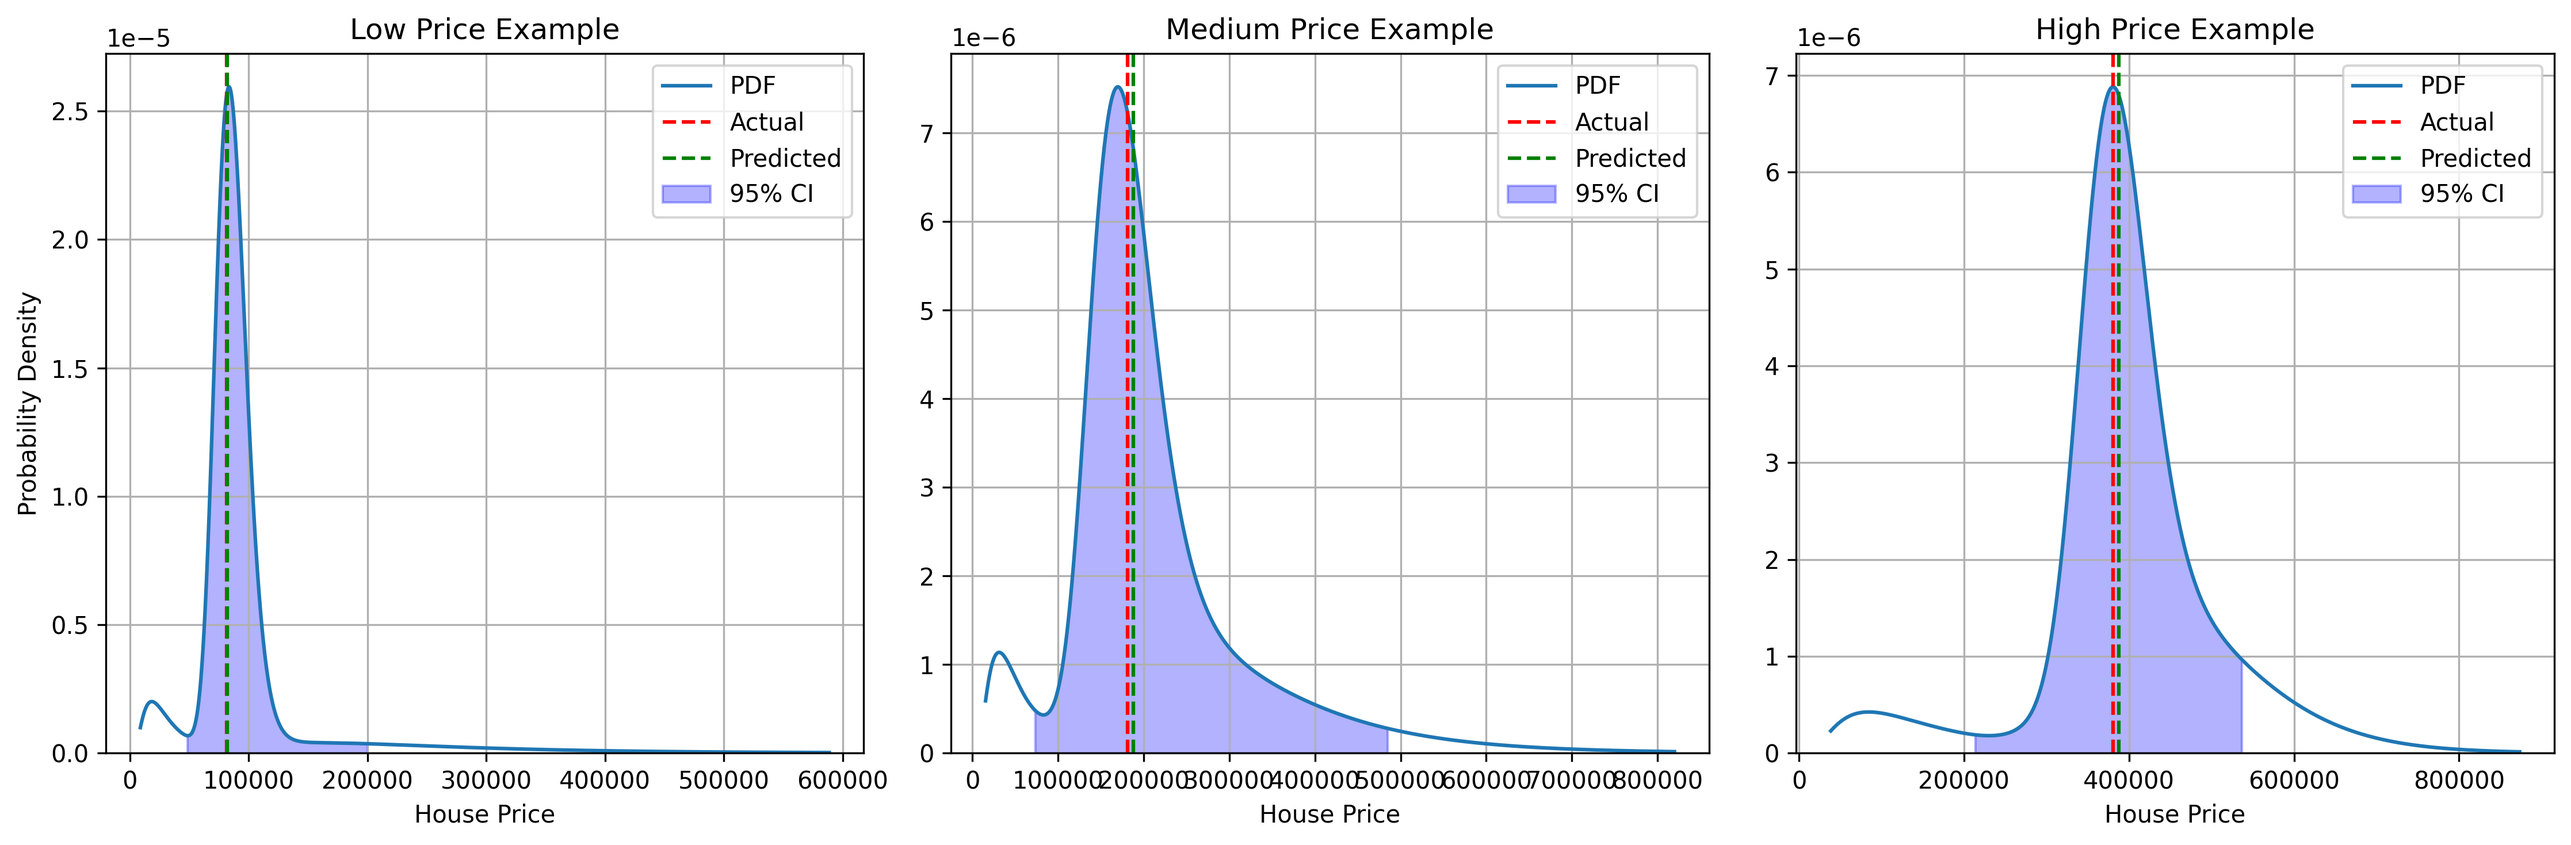
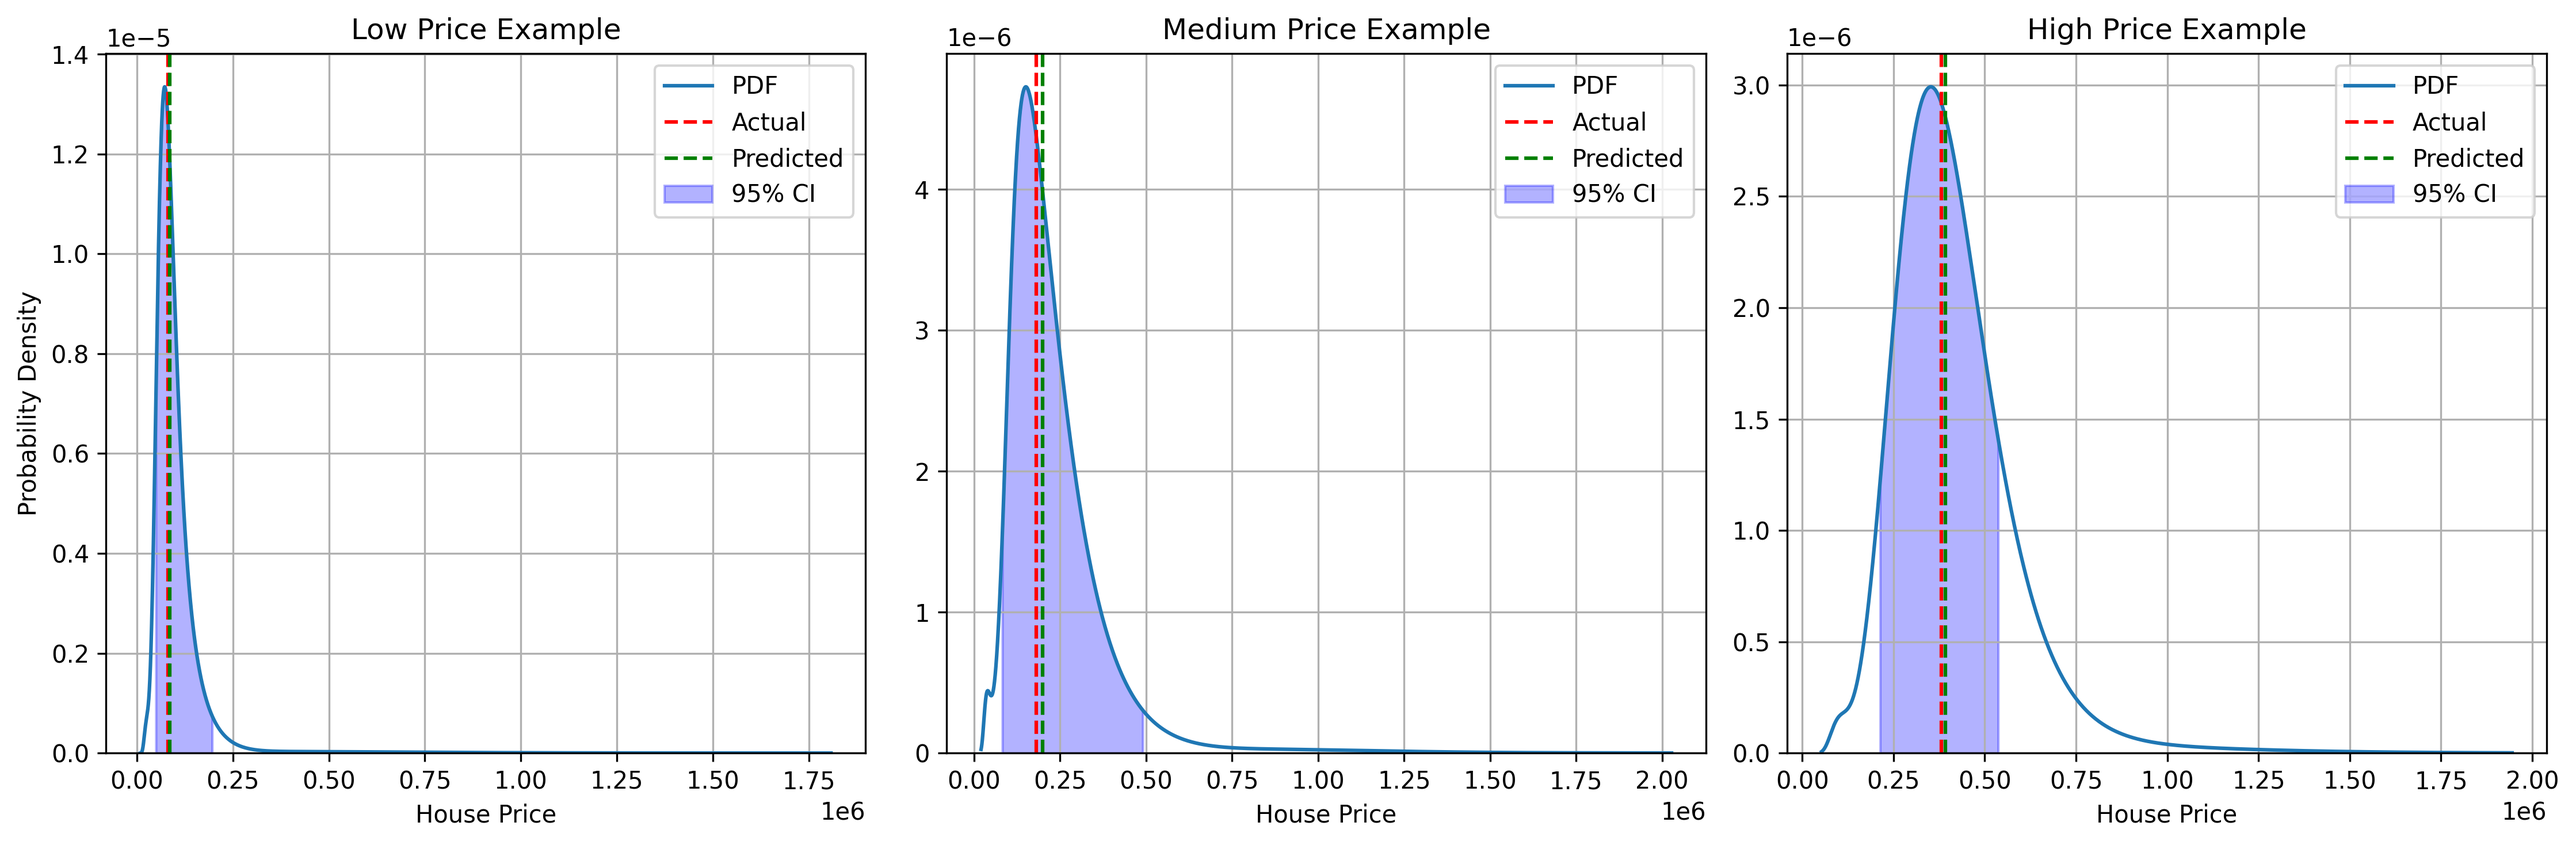
Update examples

diff --git a/prob_gbt/example.py b/prob_gbt/example.py
@@ -130,7 +130,7 @@ def main():
     print("\nTraining ProbGBT model...")
     model = ProbGBT(
         num_quantiles=100,
-        iterations=50,
+        iterations=1500,
         subsample=1.0,
         random_seed=1234,
         calibrate=True, 
@@ -147,8 +147,8 @@ def main():
         verbose=True
     )
 
-    # Define smoothing method for all predictions
-    smoothing_method = 'sample_kde'  # Use smoothing method for better curves
+    # Define smoothing method: sample_kde (default), spline, gmm
+    smoothing_method = 'sample_kde'
 
     # First, get the raw quantile predictions for direct interval calculation
     print("\nGetting raw quantile predictions...")
@@ -408,15 +408,29 @@ def main():
     print("Saved feature importance and uncertainty plot to ./images/feature_uncertainty.png")
     
     # 4. Enhanced calibration plot with detailed metrics
-    print("\nCreating enhanced calibration plot with metrics...")
-    # Create confidence levels array with 0.95 included exactly
-    confidence_levels_1 = np.linspace(0.1, 0.94, 15)
-    confidence_levels_2 = np.linspace(0.96, 0.99, 4)
-    confidence_levels = np.concatenate([confidence_levels_1, np.array([0.95]), confidence_levels_2])
+    print("\nCreating calibration plot with metrics...")
+    
+    # First, use the evaluate_calibration method to get calibration results for key confidence levels
+    print("Evaluating calibration using model.evaluate_calibration()...")
+    cal_eval_results = model.evaluate_calibration(X_test, y_test)
+    print("\nCalibration evaluation results:")
+    print(cal_eval_results)
+    
+    # Create a much finer grid of confidence levels for the detailed calibration curve
+    # Create a denser grid of confidence levels with more points
+    confidence_levels_dense = np.concatenate([
+        np.linspace(0.01, 0.09, 9),           # 1% to 9% in 1% steps
+        np.linspace(0.1, 0.9, 81),            # 10% to 90% in 1% steps
+        np.linspace(0.91, 0.99, 9),           # 91% to 99% in 1% steps
+        np.array([0.95, 0.975, 0.99])         # Add specific levels of interest
+    ])
+    # Remove duplicates and sort
+    confidence_levels_dense = np.unique(confidence_levels_dense)
+    
     observed_coverages = []
     ci_widths_by_level = []
     
-    # Create a figure for the enhanced calibration plot
+    # Create a figure for the calibration plot
     plt.figure(figsize=(12, 10))
     
     # Create two subplots: calibration curve and width vs. confidence level
@@ -424,12 +438,9 @@ def main():
     ax1 = plt.subplot(gs[0])
     ax2 = plt.subplot(gs[1])
     
-    # Use the calibration results from model.evaluate_calibration for key confidence levels
-    # and use direct calculation for the rest
-    
-    # First, compute a more detailed calibration curve for visualization
-    print("Calculating coverage for different confidence levels...")
-    for conf_level in tqdm(confidence_levels, desc="Evaluating confidence levels"):
+    # Calculate coverage for each confidence level in the dense grid
+    print("Calculating coverage for a dense grid of confidence levels...")
+    for conf_level in tqdm(confidence_levels_dense, desc="Evaluating confidence levels"):
         # For each confidence level, calculate intervals
         if model.calibrate and model.is_calibrated:
             # Use the direct quantile approach
@@ -450,19 +461,25 @@ def main():
         coverage = np.mean((y_raw_test >= lower) & (y_raw_test <= upper))
         avg_width = np.mean(upper - lower)
         
-        print(f"Coverage for {conf_level:.2f}: {coverage:.2%}, Avg. width: {avg_width:.2f}")
+        # Only print a subset of levels to avoid flooding the output
+        if np.isclose(conf_level % 0.1, 0, atol=0.005) or conf_level in [0.95, 0.975, 0.99]:
+            print(f"Coverage for {conf_level:.2f}: {coverage:.2%}, Avg. width: {avg_width:.2f}")
+        
         observed_coverages.append(coverage)
         ci_widths_by_level.append(avg_width)
     
-    # Main calibration curve
-    ax1.plot(confidence_levels, observed_coverages, 'o-', label='Observed coverage')
+    # Plot dense calibration curve
+    ax1.plot(confidence_levels_dense, observed_coverages, '-', color='blue', linewidth=2, 
+             label='Observed coverage')
+    
+    # Plot ideal calibration line
     ax1.plot([0, 1], [0, 1], 'k--', label='Ideal calibration')
     
     # Add vertical line at 95% confidence level
     ax1.axvline(x=0.95, color='r', linestyle='--', alpha=0.7, label='95% confidence level')
     
-    # Find the observed coverage at 95% confidence level (or closest to it)
-    idx_95 = np.abs(confidence_levels - 0.95).argmin()
+    # Find the observed coverage at 95% confidence level
+    idx_95 = np.abs(confidence_levels_dense - 0.95).argmin()
     coverage_at_95 = observed_coverages[idx_95]
     
     # Add horizontal line from the 95% point to the y-axis
@@ -490,16 +507,47 @@ def main():
     ax1.set_ylim(0, 1.05)
     ax1.legend(loc='lower right')
     
-    # Plot average CI width vs. confidence level
-    ax2.plot(confidence_levels, ci_widths_by_level, 'o-', color='green')
+    # Plot interval width vs confidence level
+    ax2.plot(confidence_levels_dense, ci_widths_by_level, '-', color='green', linewidth=2,
+             label='CI width')
+    
     ax2.set_xlabel('Confidence Level')
     ax2.set_ylabel('Avg. CI Width')
     ax2.set_title('Average Confidence Interval Width by Confidence Level')
     ax2.grid(True)
+    ax2.legend(loc='upper left')
     
     plt.tight_layout()
-    plt.savefig('./images/enhanced_calibration_plot.png', dpi=300, bbox_inches='tight')
-    print("Saved enhanced calibration plot to ./images/enhanced_calibration_plot.png")
+    plt.savefig('./images/calibration_plot.png', dpi=300, bbox_inches='tight')
+    print("Saved calibration plot to ./images/calibration_plot.png")
+    
+    # 5. Calibration error plot - shows miscalibration by confidence level
+    plt.figure(figsize=(10, 6))
+    
+    # Calculate calibration error (observed - expected)
+    calibration_errors = np.array(observed_coverages) - confidence_levels_dense
+    
+    plt.plot(confidence_levels_dense, calibration_errors, '-', color='purple', linewidth=2)
+    plt.axhline(y=0, color='black', linestyle='--', alpha=0.7, label='Perfect calibration')
+    
+    # Add points for key confidence levels
+    key_levels = [0.5, 0.8, 0.9, 0.95, 0.99]
+    for level in key_levels:
+        idx = np.abs(confidence_levels_dense - level).argmin()
+        plt.plot(level, calibration_errors[idx], 'o', markersize=8, 
+                 label=f'{level:.0%}: {calibration_errors[idx]*100:+.1f}%')
+    
+    plt.grid(True)
+    plt.xlabel('Confidence Level')
+    plt.ylabel('Calibration Error (Observed - Expected)')
+    plt.title('Calibration Error by Confidence Level')
+    plt.legend(loc='best')
+    
+    # Add horizontal lines showing acceptable error ranges (+/- 2%)
+    plt.axhspan(-0.02, 0.02, alpha=0.1, color='green', label='±2% error range')
+    
+    plt.savefig('./images/calibration_error_plot.png', dpi=300, bbox_inches='tight')
+    print("Saved calibration error plot to ./images/calibration_error_plot.png")
 
     print("\nExample completed. Check the generated plots in the images directory.")
 

diff --git a/README.md b/README.md
@@ -44,9 +44,34 @@ ProbGBT is a probabilistic machine learning model that extends gradient boosted 
 
 *Feature importance and its relationship with prediction uncertainty, demonstrating which features contribute most to the model's predictions and uncertainty.*
 
-![Calibration Plot](./images/calibration_plot.png)
+### Calibration Analysis
 
-*Calibration plot showing how well the predicted confidence intervals match the observed coverage, with a focus on the 95% confidence level.*
+<table>
+  <tr>
+    <td><img src="./images/calibration_plot.png" alt="Calibration Plot" width="100%"/></td>
+  </tr>
+  <tr>
+    <td><img src="./images/calibration_error_plot.png" alt="Calibration Error Plot" width="100%"/></td>
+  </tr>
+</table>
+
+*Top: Calibration plot showing the relationship between expected coverage (confidence level) and observed coverage. The blue line represents the observed coverage at different confidence levels, while the dashed black line indicates perfect calibration. The plot also shows how confidence interval width increases with confidence level.*
+
+*Bottom: Calibration error plot showing the difference between observed and expected coverage across confidence levels. Points highlight key confidence levels (50%, 80%, 90%, 95%, 99%), and the green band indicates an acceptable error range of ±2%. This plot helps identify where the model might be over-confident (negative values) or under-confident (positive values).*
+
+The calibration analysis is crucial for assessing the reliability of the model's uncertainty estimates:
+
+1. **Perfect calibration** would follow the diagonal line in the calibration plot, meaning that for any confidence level α, exactly α% of the true values fall within the predicted intervals.
+
+2. **Over-confidence** occurs when the blue line falls below the diagonal, indicating that the predicted intervals are too narrow and contain fewer true values than expected.
+
+3. **Under-confidence** occurs when the blue line is above the diagonal, indicating that the predicted intervals are unnecessarily wide.
+
+4. **The calibration error plot** makes it easier to identify miscalibration patterns across different confidence levels, with values closer to zero indicating better calibration.
+
+5. **Confidence interval width** (shown in the bottom part of the calibration plot) typically increases as the confidence level increases, but the rate of increase can reveal patterns in the model's uncertainty estimation.
+
+ProbGBT's conformal calibration mechanism aims to ensure that the calibration curve stays close to the diagonal, providing statistically valid uncertainty estimates.
 
 ## Installation
 
@@ -87,6 +112,7 @@ poetry run run-example
 ```python
 from prob_gbt import ProbGBT
 from sklearn.model_selection import train_test_split
+import numpy as np
 
 # Prepare your data
 X_train, X_test, y_train, y_test = train_test_split(X, y, test_size=0.2)
@@ -95,18 +121,43 @@ X_train, X_test, y_train, y_test = train_test_split(X, y, test_size=0.2)
 model = ProbGBT(num_quantiles=50, iterations=500, train_separate_models=False)
 model.train(X_train, y_train, cat_features=cat_features)
 
-# Make point predictions
-y_pred = model.predict(X_test)
+# Get raw quantile predictions (useful for direct quantile-based analyses)
+raw_quantiles = model.predict_raw(X_test)
 
-# Get confidence intervals
-lower_bounds, upper_bounds = model.predict_interval(X_test, confidence_level=0.95)
+# Get probability distributions (PDF and CDF)
+distributions = model.predict(X_test, method='sample_kde')
 
-# Get full probability distributions
-pdfs = model.predict_pdf(X_test)
+# Helper functions to calculate point estimates and intervals from distributions
+def calculate_median(x_values, cdf_values):
+    """Calculate the median from a CDF."""
+    median_idx = np.searchsorted(cdf_values, 0.5, side='left')
+    median_idx = max(0, min(median_idx, len(x_values) - 1))
+    return x_values[median_idx]
 
-# Using GMM smoothing for more robust distributions (for multi-modal data)
-lower_gmm, upper_gmm = model.predict_interval(X_test, confidence_level=0.95, method='gmm')
-pdfs_gmm = model.predict_pdf(X_test, method='gmm')
+def calculate_confidence_interval(x_values, cdf_values, confidence_level=0.95):
+    """Calculate confidence interval from a CDF."""
+    lower_q = (1 - confidence_level) / 2
+    upper_q = 1 - lower_q
+    
+    lower_idx = np.searchsorted(cdf_values, lower_q, side='left')
+    upper_idx = np.searchsorted(cdf_values, upper_q, side='left')
+    
+    lower_idx = max(0, min(lower_idx, len(x_values) - 1))
+    upper_idx = max(0, min(upper_idx, len(x_values) - 1))
+    
+    return x_values[lower_idx], x_values[upper_idx]
+
+# Calculate median predictions
+y_pred = np.array([calculate_median(x_vals, cdf_vals) for x_vals, _, cdf_vals in distributions])
+
+# Calculate 95% confidence intervals
+intervals = [calculate_confidence_interval(x_vals, cdf_vals, 0.95) 
+            for x_vals, _, cdf_vals in distributions]
+lower_bounds = np.array([lower for lower, _ in intervals])
+upper_bounds = np.array([upper for _, upper in intervals])
+
+# Using different smoothing methods
+gmm_distributions = model.predict(X_test, method='gmm')
 ```
 
 ### Using Calibration
@@ -134,11 +185,29 @@ model.train(
     calibration_set=(X_cal, y_cal)  # Use separate calibration data
 )
 
-# Get calibrated confidence intervals
-lower_bounds, upper_bounds = model.predict_interval(X_test, confidence_level=0.95)
+# For calibrated models, you can compute confidence intervals directly from raw quantiles
+# This is often more accurate than using the smoothed distributions
+def calculate_intervals_from_raw_quantiles(quantile_preds, quantiles, confidence_level=0.95):
+    """Calculate confidence intervals directly from raw quantile predictions."""
+    lower_q = (1 - confidence_level) / 2
+    upper_q = 1 - lower_q
+    
+    # Find the closest available quantiles
+    lower_idx = np.argmin(np.abs(quantiles - lower_q))
+    upper_idx = np.argmin(np.abs(quantiles - upper_q))
+    
+    # Get the predicted values at those quantiles
+    return quantile_preds[:, lower_idx], quantile_preds[:, upper_idx]
 
-# Get calibrated PDFs
-pdfs = model.predict_pdf(X_test, use_calibration=True)
+# Get calibrated raw quantiles
+raw_quantiles = model.predict_raw(X_test)
+
+# Calculate confidence intervals directly from calibrated quantiles
+lower_bounds, upper_bounds = calculate_intervals_from_raw_quantiles(
+    raw_quantiles, model.quantiles, confidence_level=0.95)
+
+# Get calibrated PDFs and CDFs
+distributions = model.predict(X_test)
 
 # Evaluate calibration quality
 calibration_results = model.evaluate_calibration(X_val, y_val)
@@ -237,8 +306,37 @@ The PDF generation process in ProbGBT involves several sophisticated steps:
      ```
    - This uses the trapezoidal rule for numerical integration
 
-6. **Gaussian Mixture Model (GMM) Smoothing**:
-   - In addition to spline-based smoothing, ProbGBT offers an optional GMM-based smoothing method
+6. **Sample-based KDE Smoothing (Default)**:
+   - ProbGBT's default smoothing method (`sample_kde`) uses a different approach that combines sampling and Kernel Density Estimation
+   - The process works as follows:
+     1. Generate random uniform samples in the probability space between 0 and 1:
+        ```python
+        prob_samples = np.random.uniform(0, 1, n_samples)
+        ```
+     2. Transform these samples into the target variable space by interpolating from the predicted quantiles:
+        ```python
+        samples = np.interp(prob_samples, self.quantiles, y_pred_sample)
+        ```
+     3. Apply Kernel Density Estimation (KDE) to these samples to get a smooth PDF:
+        ```python
+        kde = KernelDensity(bandwidth='silverman', kernel='gaussian')
+        kde.fit(samples)
+        pdf_values = np.exp(kde.score_samples(x_values))
+        ```
+     4. Normalize the PDF and compute the CDF using numerical integration:
+        ```python
+        pdf_values = pdf_values / np.trapz(pdf_values, x_values.ravel())
+        cdf_values = cumulative_trapezoid(pdf_values, x_values.ravel(), initial=0)
+        ```
+   - This method has several advantages:
+     - Produces smoother distributions than direct differentiation of the quantile function
+     - Better captures complex shapes including multi-modality
+     - More robust to noise in the predicted quantiles
+     - Automatically adapts to the data density in different regions
+   - The 'silverman' rule for bandwidth selection automatically determines an appropriate smoothing level based on the data
+
+7. **Gaussian Mixture Model (GMM) Smoothing**:
+   - In addition to spline-based and sample-based KDE smoothing, ProbGBT offers an optional GMM-based smoothing method
    - GMM fits a mixture of Gaussian distributions to the data, providing a more robust representation for complex distributions
    - This can be enabled by setting `method='gmm'` in the `predict_pdf()` or `predict_interval()` functions:
      ```python
@@ -325,13 +423,30 @@ ProbGBT(
 #### Methods:
 
 - `train(X, y, cat_features=None, eval_set=None, use_best_model=True, verbose=True, calibration_set=None, calibration_size=0.2)`: Train the model
-- `predict(X, return_quantiles=False)`: Make predictions
-- `predict_interval(X, confidence_level=0.95, method='spline', num_points=1000)`: Predict confidence intervals
-- `predict_pdf(X, num_points=1000, method='spline', use_calibration=True)`: Predict probability density functions
+- `predict_raw(X)`: Get raw quantile predictions (with calibration applied if enabled)
+- `predict(X, method='sample_kde', num_points=1000)`: Predict probability density functions and CDFs for the given samples
 - `evaluate_calibration(X_val, y_val, confidence_levels=None)`: Evaluate calibration quality on validation data
-- `predict_distribution(X, confidence_levels=None, method='spline', num_points=1000)`: Get both calibrated intervals and smoothed PDFs
 - `save(filepath, format='cbm', compression_level=6)`: Save the trained model to a file
 - `load(filepath, format='cbm')`: Load a saved model from a file
+
+**Note:** The following methods have been removed in the newest version, as their functionality is now integrated directly into the predict() method combined with helper functions:
+- `predict_interval`: Use predict() and calculate confidence intervals from the returned CDFs
+- `predict_pdf`: Use predict() directly
+- `predict_distribution`: Use predict() and calculate statistics from the returned distributions
+
+> **API Changes in v2.0**
+> 
+> The ProbGBT API has been refactored to be more efficient and flexible:
+>
+> 1. The `predict()` method now returns a list of tuples: `[(x_values, pdf_values, cdf_values), ...]` for each sample, providing both PDF and CDF in a single call.
+> 
+> 2. The `predict_raw()` method returns the raw quantile predictions (with calibration applied if enabled). For calibrated models, getting confidence intervals directly from these raw quantiles is more accurate.
+>
+> 3. Statistics and intervals are calculated from the distributions rather than making separate API calls. This approach is more efficient because it computes the distribution only once.
+>
+> 4. The default smoothing method is now `sample_kde`, which produces higher quality PDFs, especially for complex distributions.
+>
+> See the examples above for how to calculate medians and confidence intervals using the new API.
 
 ### Save and Load Functionality
 
